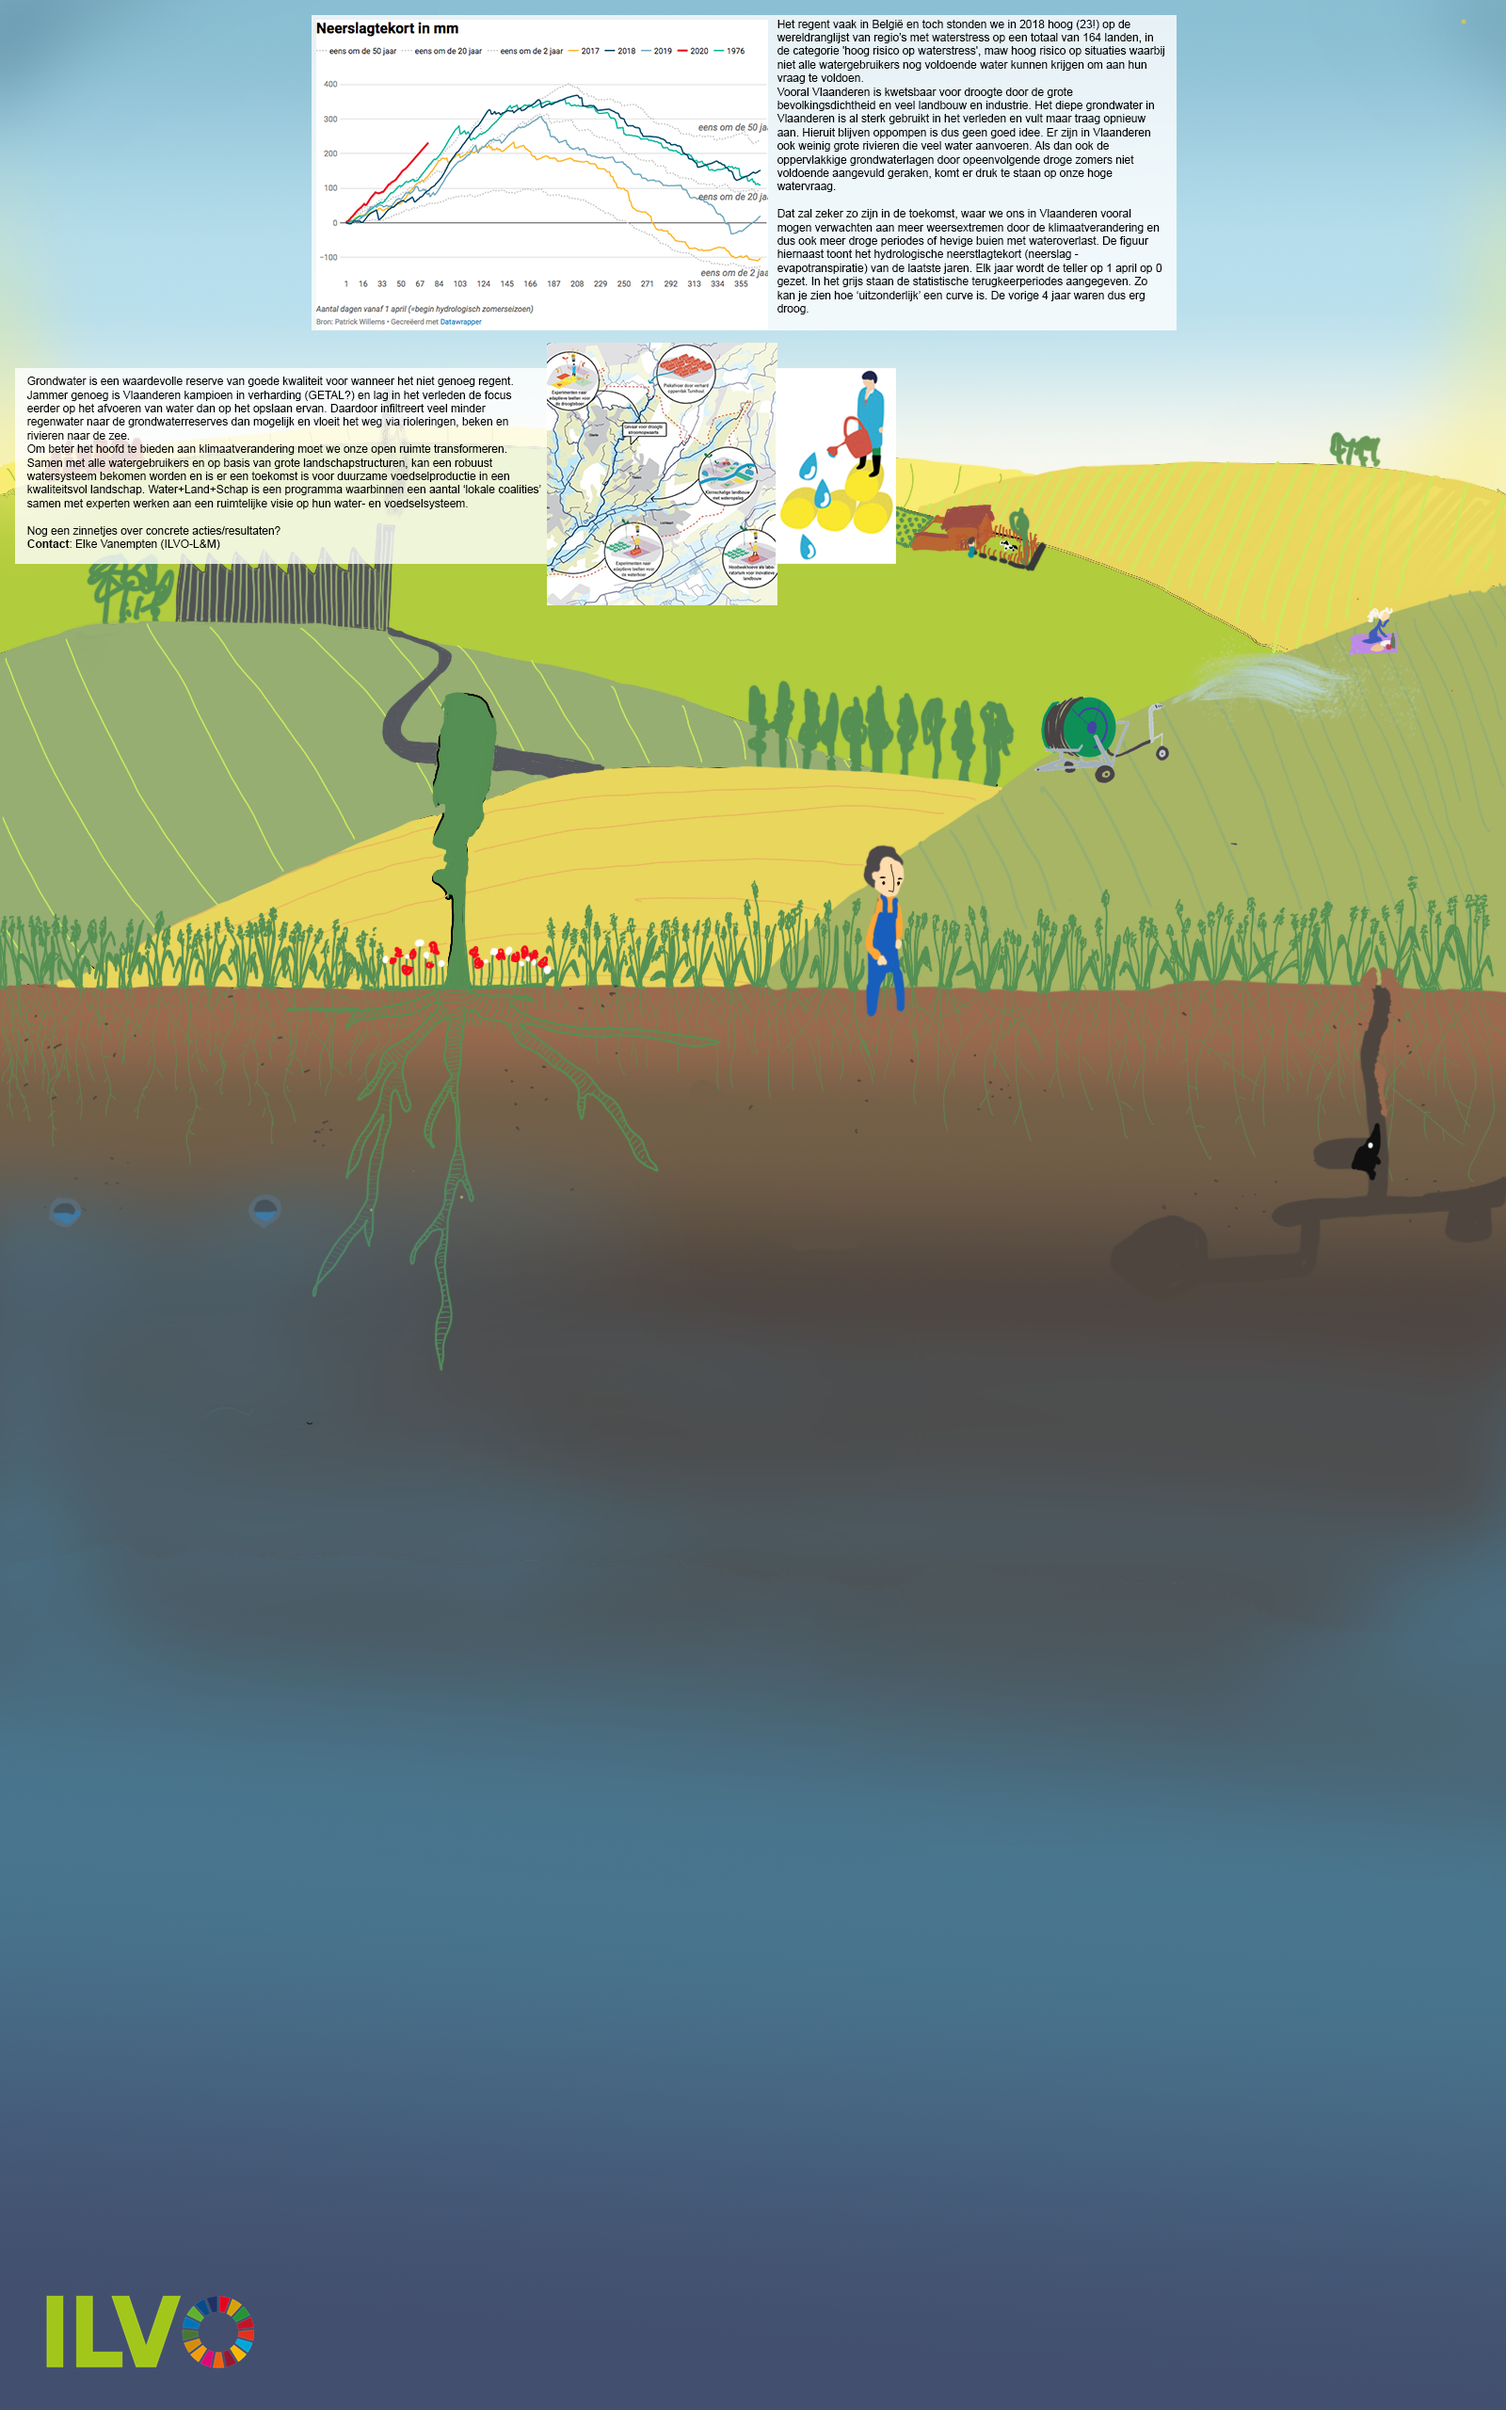
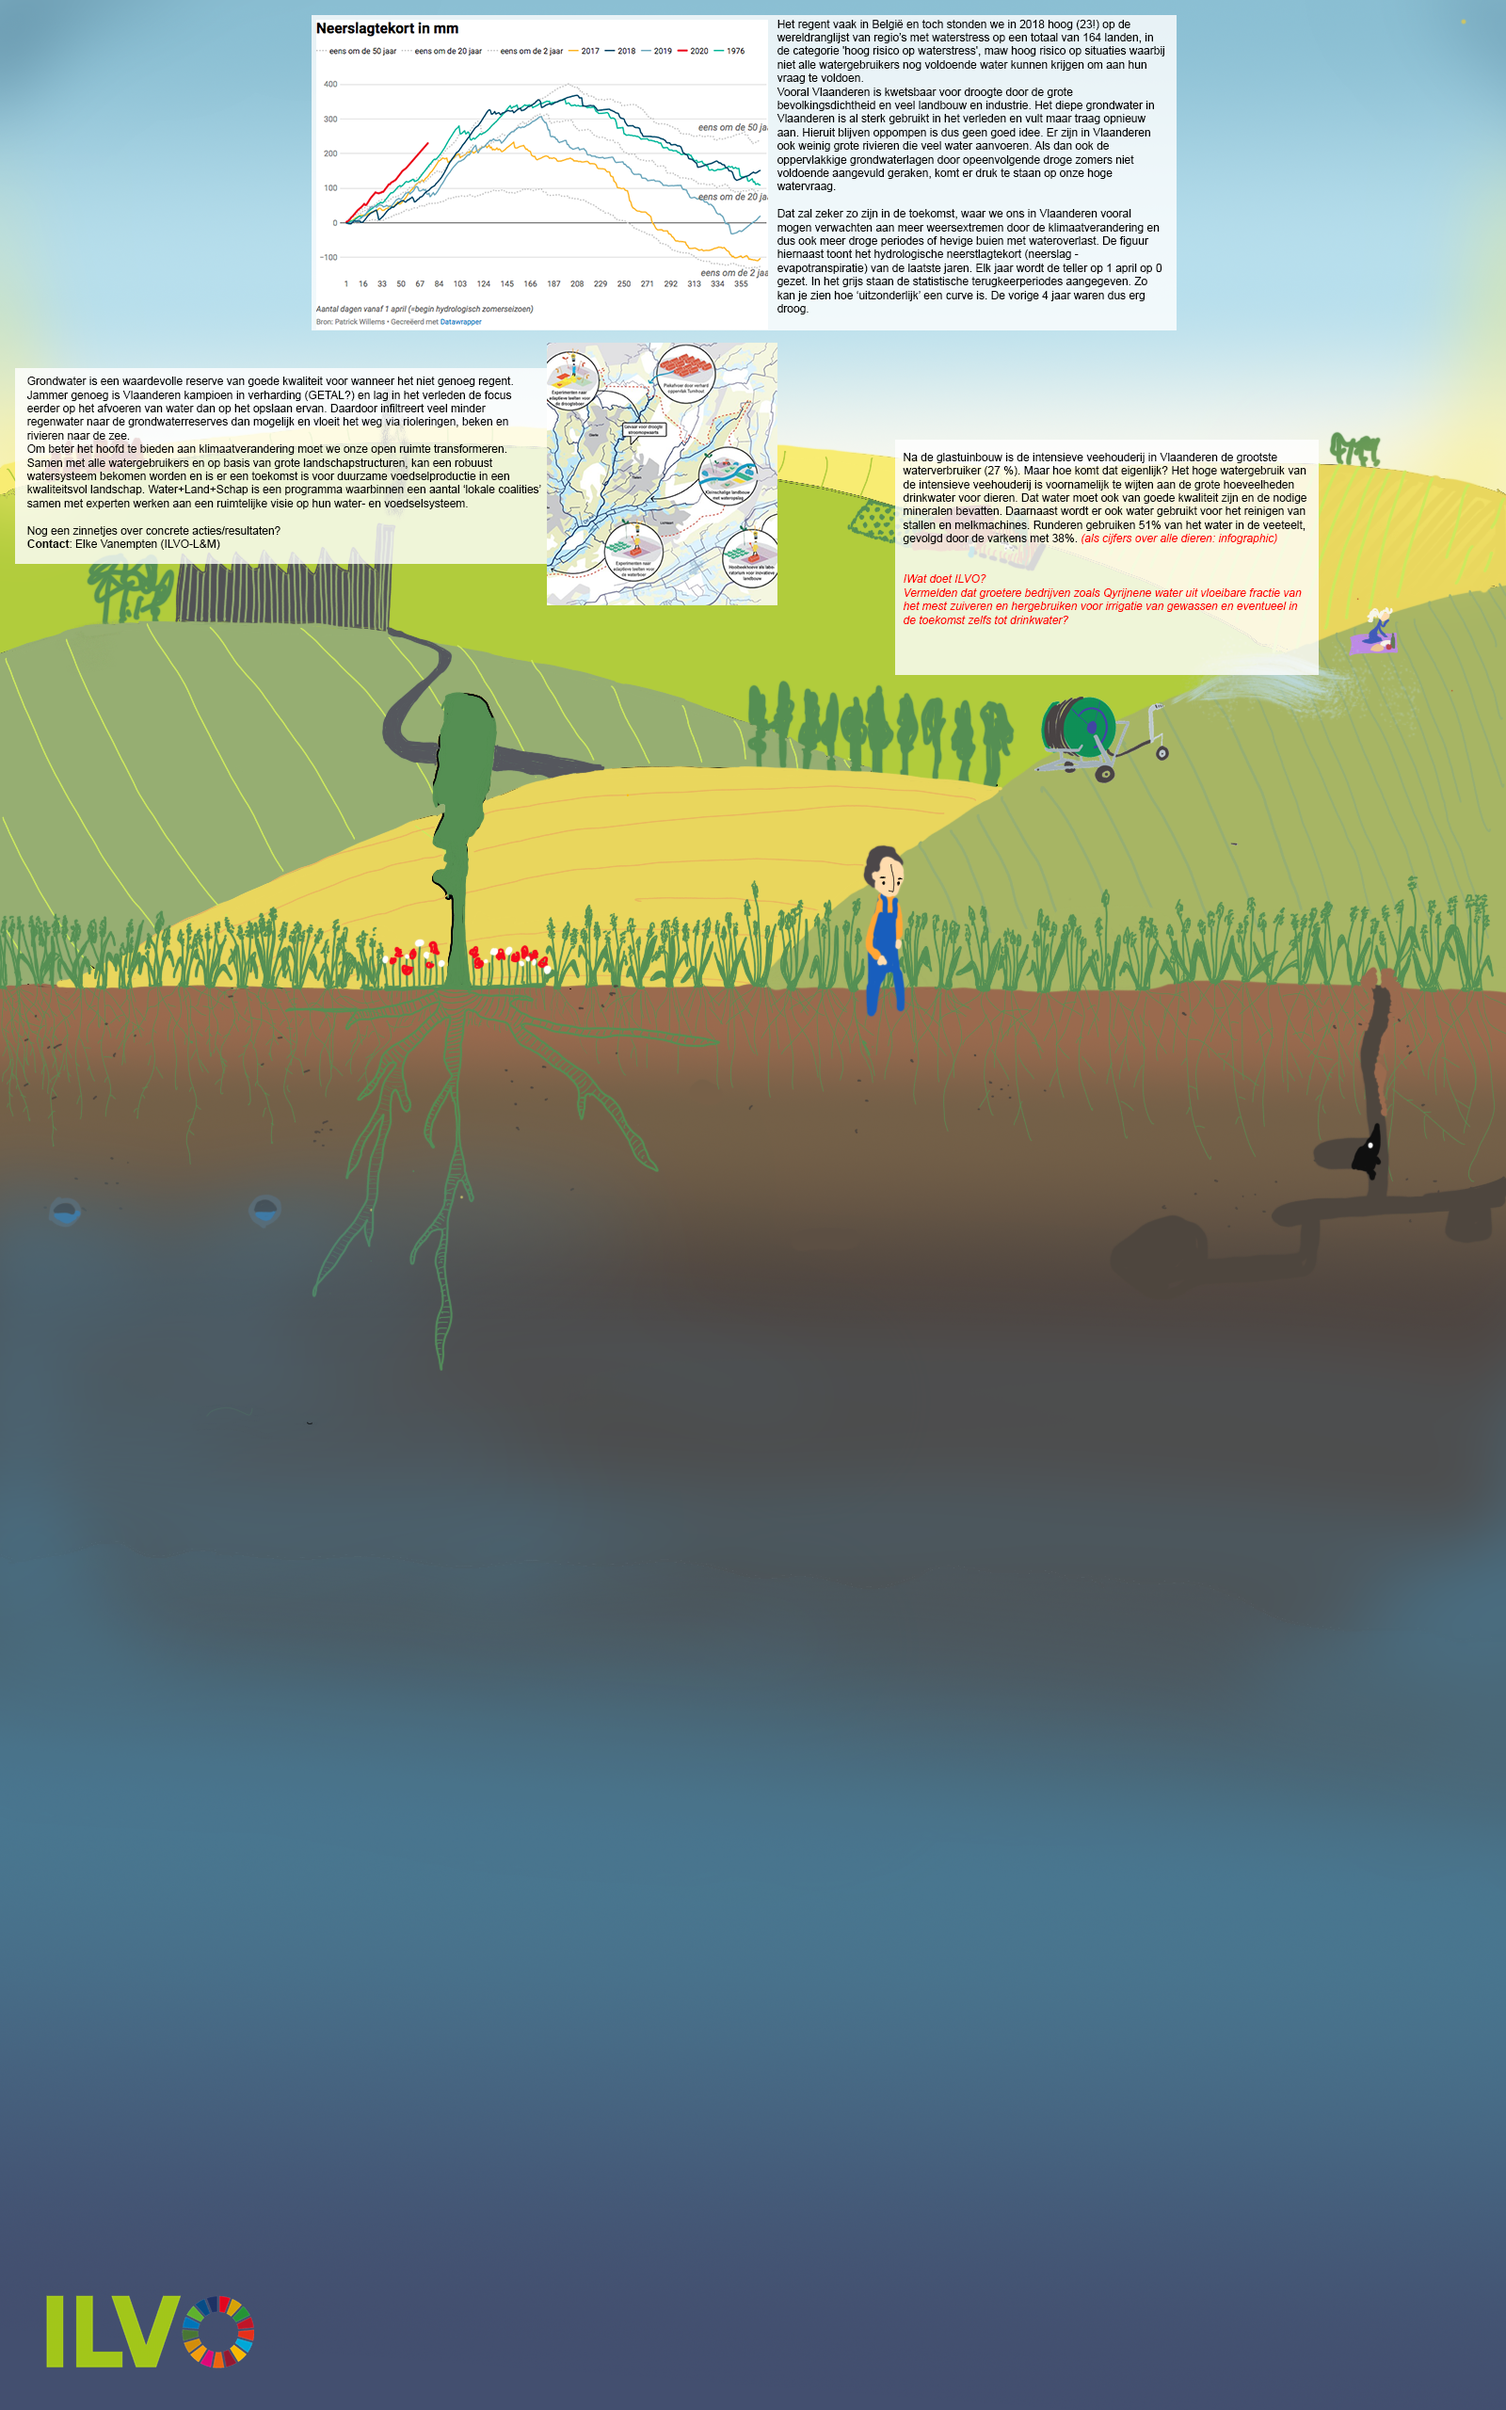
late update

Changed region(s): [[0.5, 0.125, 0.875, 0.2812]]

diff --git a/stijl_water.css b/stijl_water.css
@@ -70,6 +70,9 @@ ul#flaps li#water-storage a:hover {
  top: 460px;
  left: 950px;
 } 
+ul#flaps li#water-livestock a:hover {
+ background-position: -950px -460px;
+}
 #water-sources {
  width: 250px;
  height: 990px;
@@ -102,14 +105,14 @@ ul#flaps li#water-storage a:hover {
 }
 #drainage {
  width: 390px;
- height: 390px;
- top: 1100px;
+ height: 430px;
+ top: 1120px;
  left: 20px;
 }
 #water-footprint {
  width: 400px;
  height: 450px;
- top: 615px;
+ top: 635px;
  left: 20px;
 }
 #soil-management {
